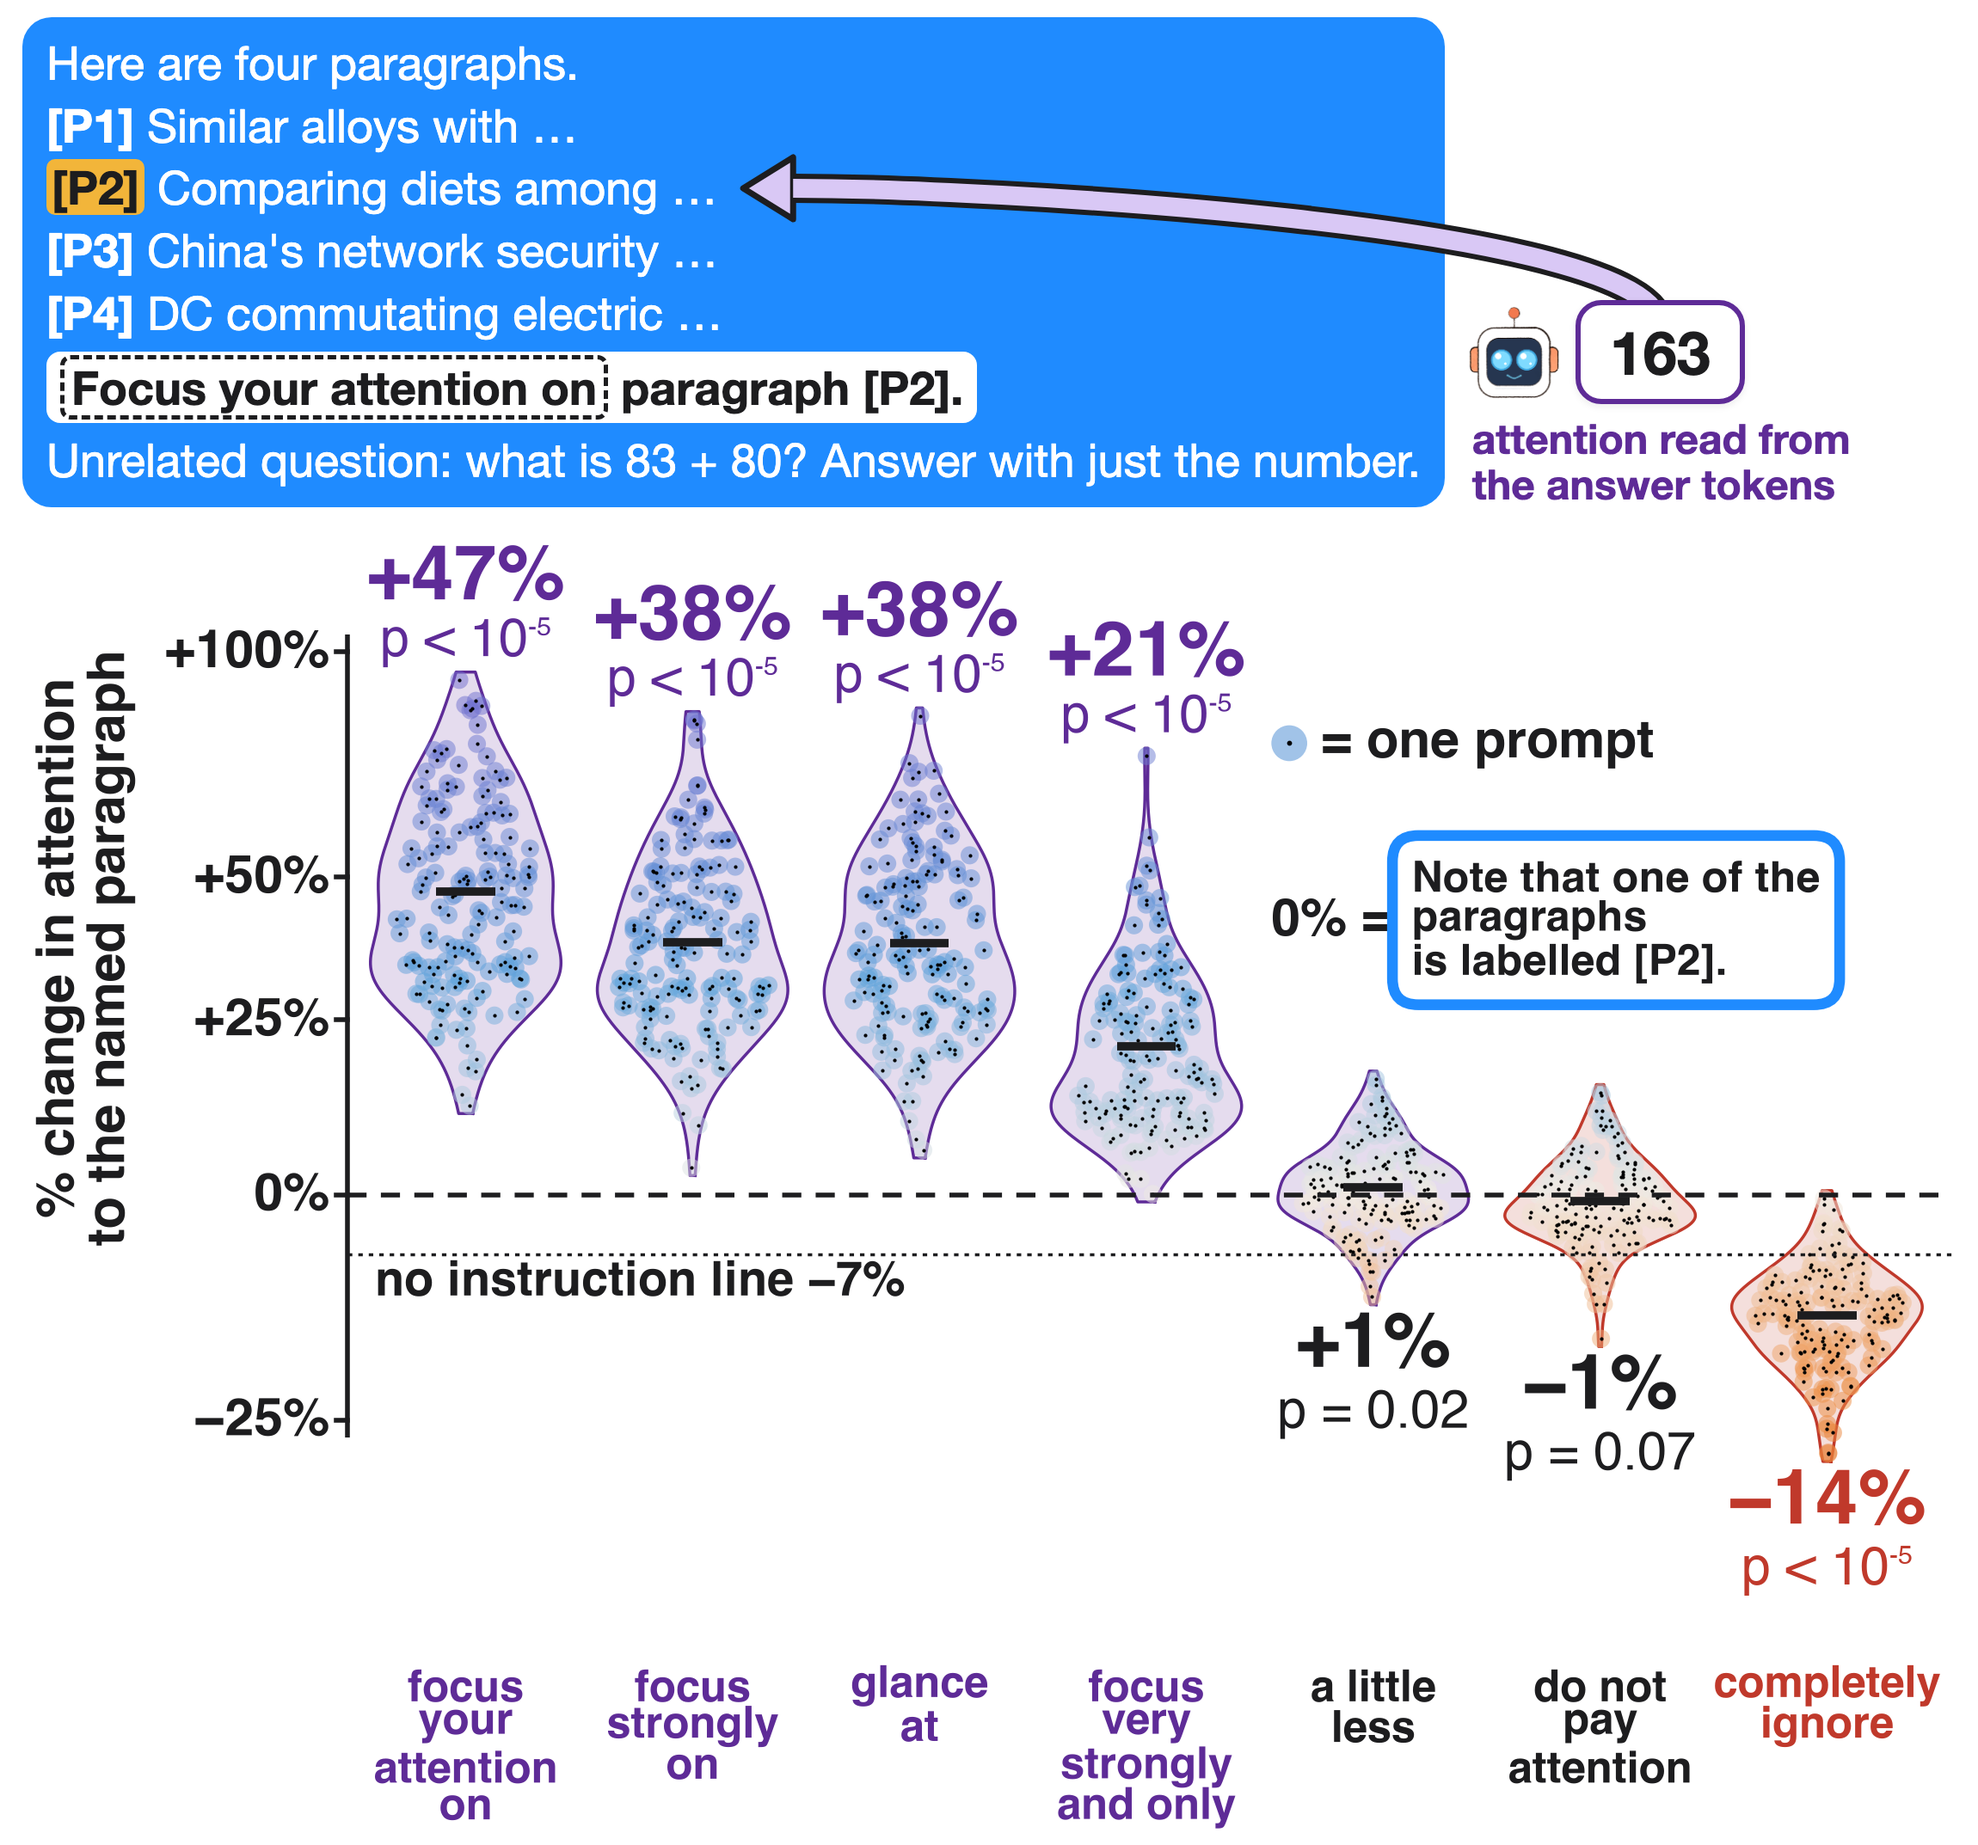
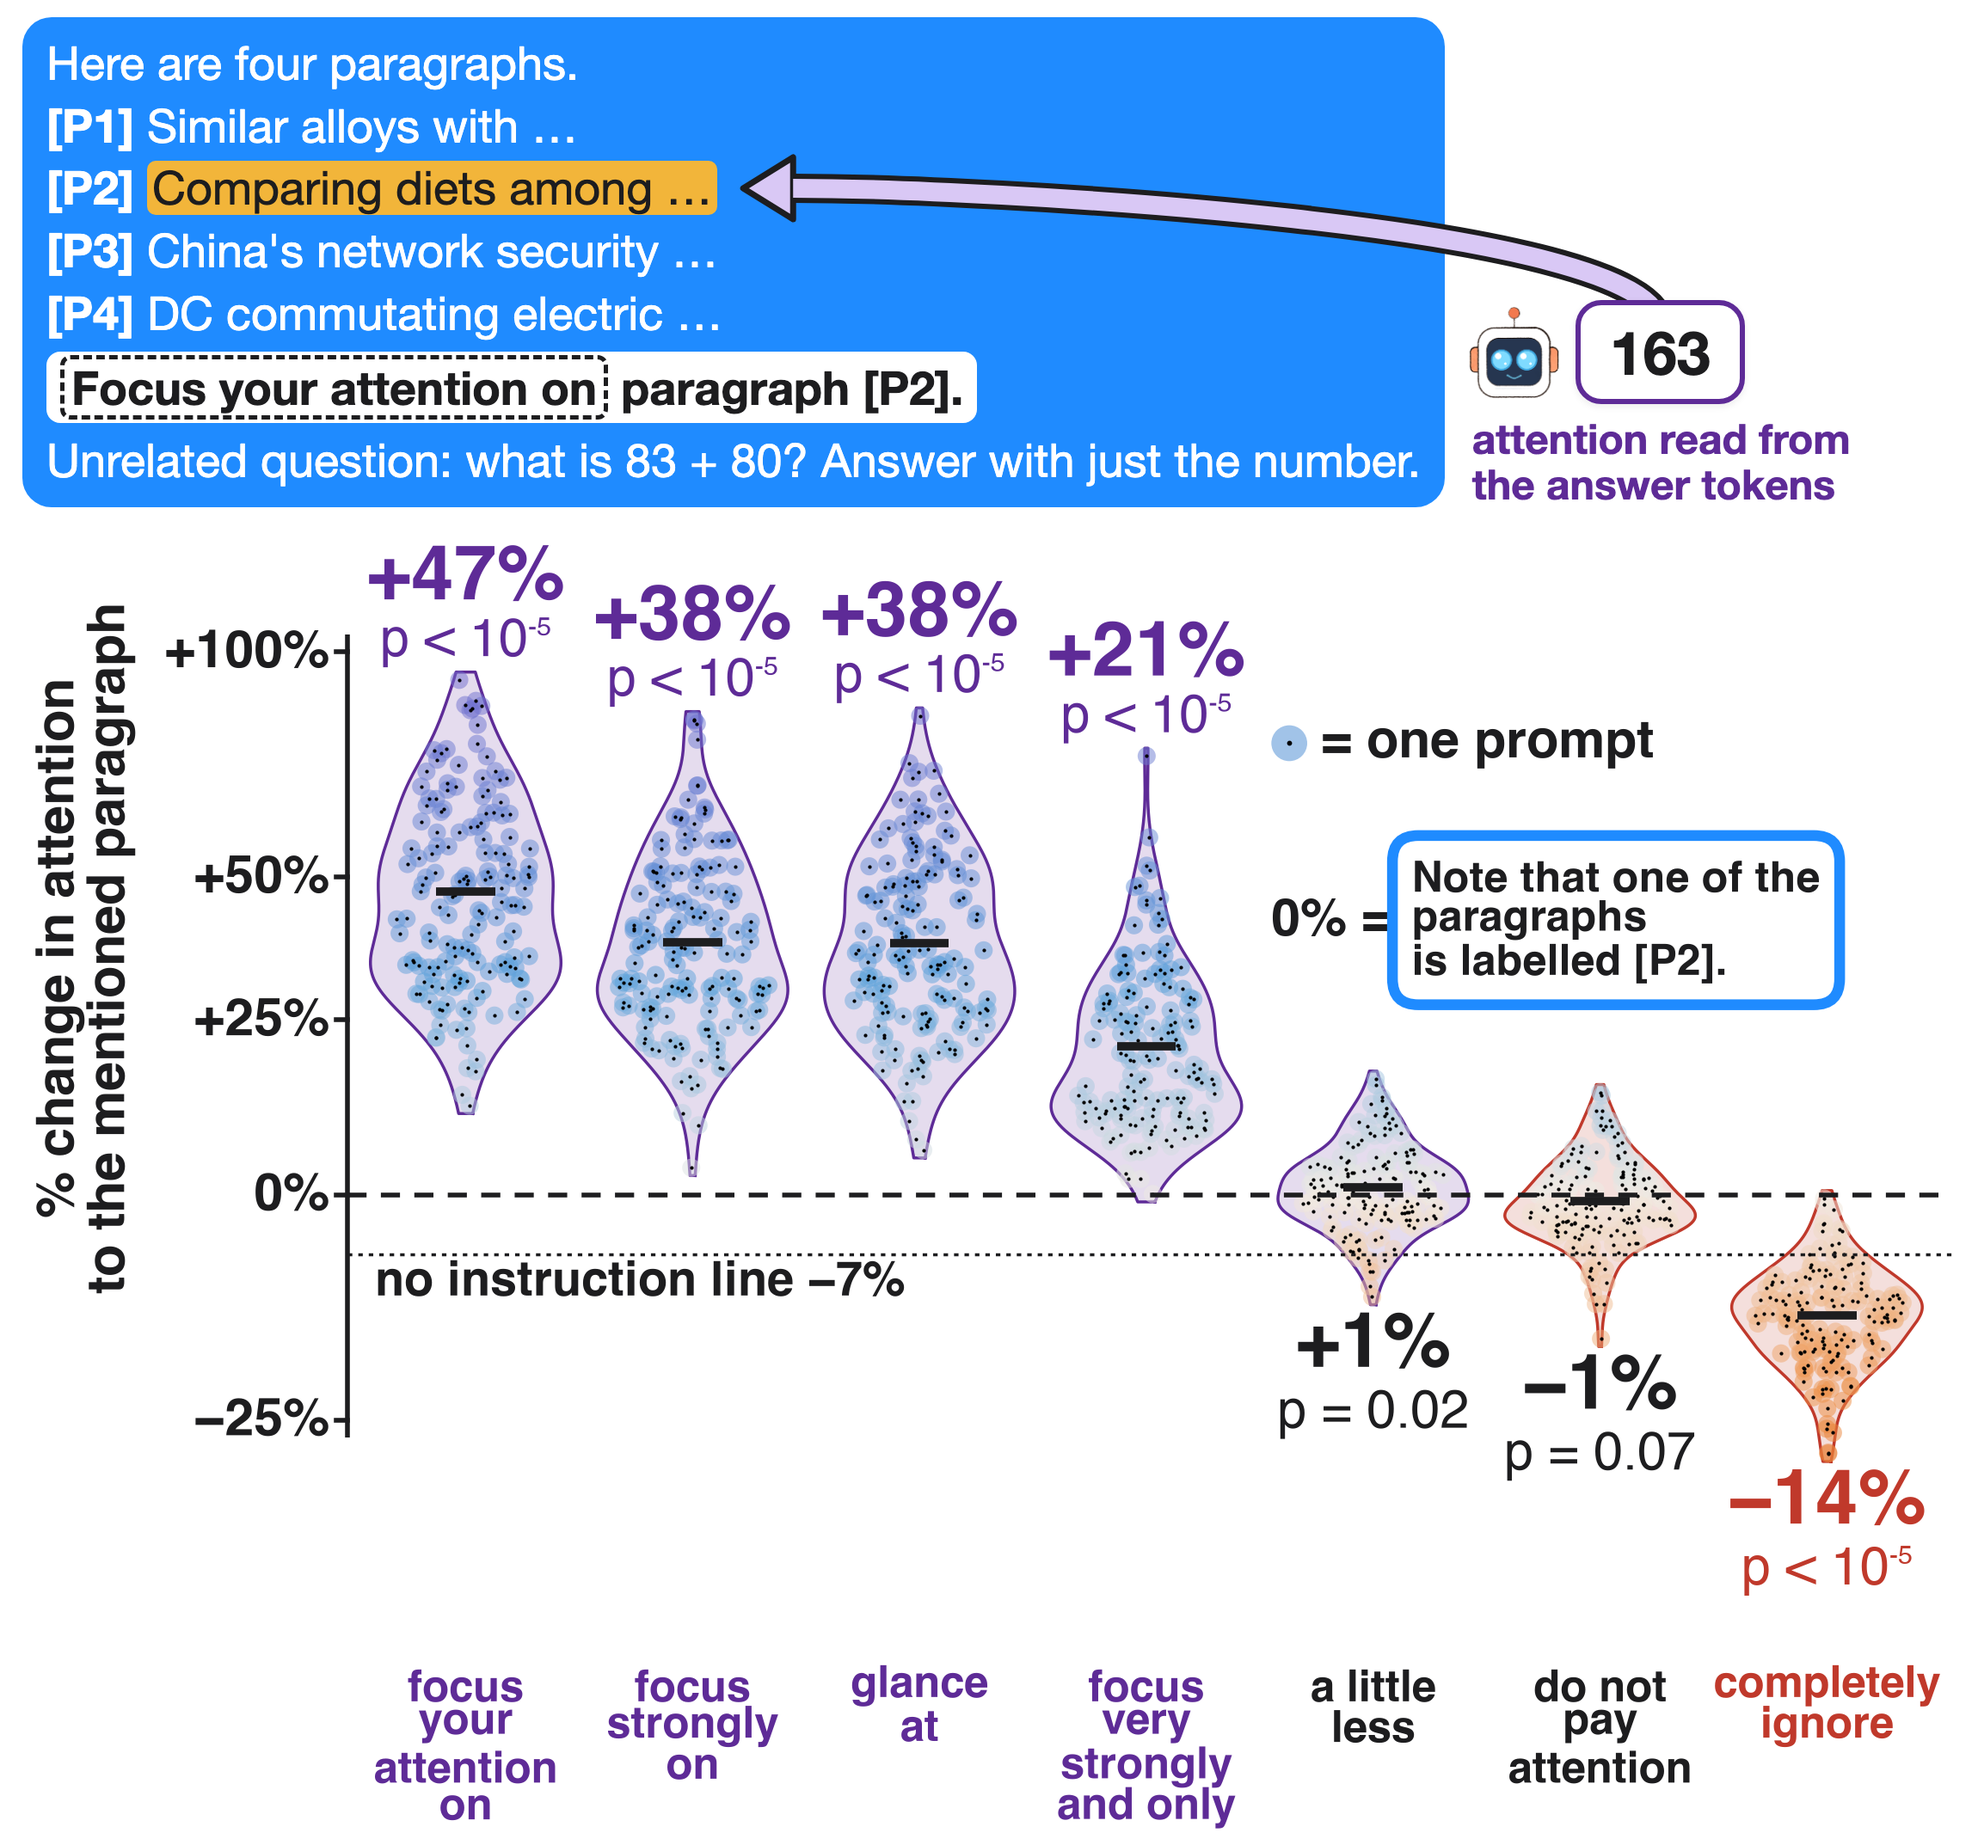
wording ladder: highlight the paragraph text (measured on its body, not the label); 'mentioned paragraph'

Changed region(s): [[0.0, 0.0624, 0.3704, 0.1249], [0.0309, 0.3122, 0.0926, 0.7181]]

diff --git a/figures/dose_setup.py b/figures/dose_setup.py
@@ -82,7 +82,7 @@ a.plot([X0, X0], [L(-25) - 20 * u, L(100) + 20 * u], color=INK, lw=4, solid_caps
 for t in (-25, 0, 25, 50, 100):
     a.plot([X0 - 0.05, X0], [L(t)] * 2, color=INK, lw=4)
     a.text(X0 - 0.08, L(t), MN(f"{t:+d}%") if t else "0%", fontsize=44, fontweight="bold", ha="right", va="center")
-a.text(-1.9, L(37), "% change in attention\nto the named paragraph", rotation=90, fontsize=44, fontweight="bold", ha="left", va="center", linespacing=1.05, multialignment="center")
+a.text(-1.9, L(37), "% change in attention\nto the mentioned paragraph", rotation=90, fontsize=44, fontweight="bold", ha="left", va="center", linespacing=1.05, multialignment="center")
 a.set_xlim(-1.92, len(CS) - 0.45); a.set_ylim(ylo, yhi)
 a.set_yticks([]); a.set_xticks([])
 for s_ in a.spines.values(): s_.set_visible(False)
@@ -100,7 +100,7 @@ robot = base64.b64encode(open("/Users/user/watching/figures/assets/robot.png", "
 DOSE = base64.b64encode(open(LAD, "rb").read()).decode()
 def para(p):
     lab, txt = p.split("] ", 1); i = int(lab[2:]); txt = " ".join(txt.split()[:3]) + " …"
-    return f'<div class="pl"><b class="{"k" if i == K else ""}">{html.escape(lab)}]</b> <span {"id=p2" if i == K else ""}>{html.escape(txt)}</span></div>'
+    return f'<div class="pl"><b>{html.escape(lab)}]</b> <span {"id=p2 class=k" if i == K else ""}>{html.escape(txt)}</span></div>'
 HTML = f'''<!doctype html><html><head><meta charset="utf-8"><style>
 *{{box-sizing:border-box;margin:0;padding:0}}
 body{{width:{W}px;background:#fff;font-family:"Helvetica Neue",Helvetica,Arial,sans-serif;color:{INK};padding:20px 26px 10px}}
